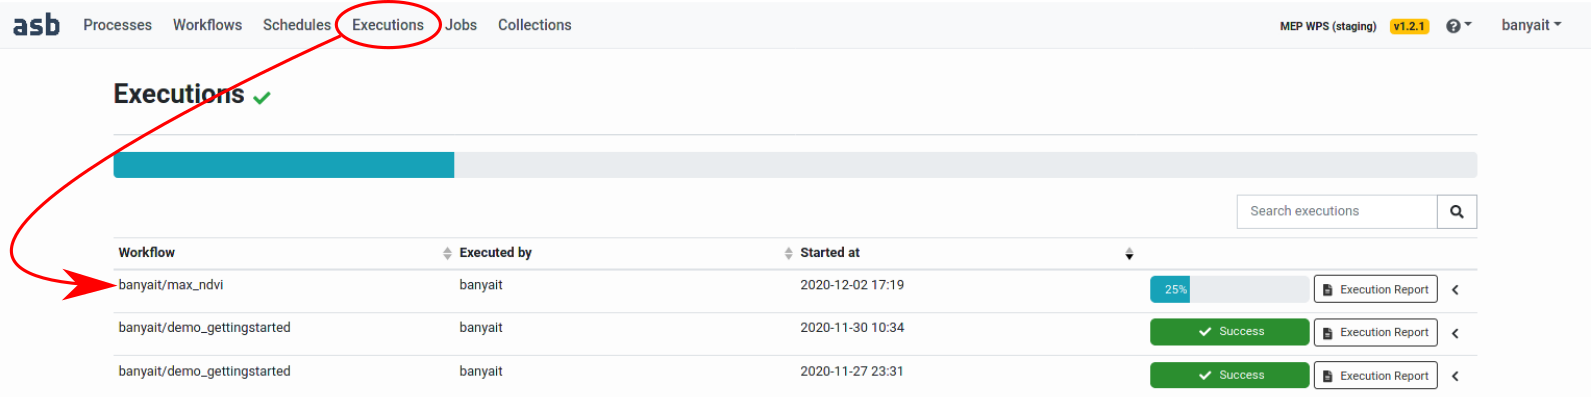
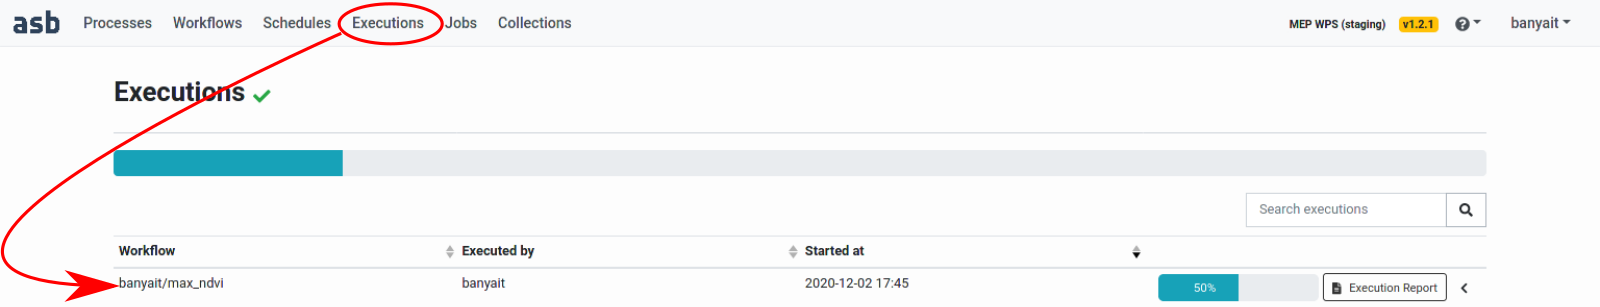
EP-3636 first version of the demo

diff --git a/README.md b/README.md
@@ -567,9 +567,42 @@ Note that wkt has to be filled twice: this is because a current limitation that 
 
 The progress is displayed in the executions tab:
 
-<img src="resources/demo_gettingstarted/execute_progress.png" width="400"/><br><em>Figure: all fields completed for an execution</em>
+<img src="resources/demo_gettingstarted/execute_progress.png" width="400"/><br><em>Figure: execution progress</em>
 
 Once it is completed (either green if successful or red if failed), the execution report becomes available:
 
+<img src="resources/demo_gettingstarted/execute_finished.png" width="400"/><br><em>Figure: execution successfully finished</em>
+
+The execution summary will print out various details of the job, such as:
+
+* All outputs of all processes
+* Execution graph
+* Timing of the processes
+
+It also provides a link to download results saved to file 
+<ins>
+(It is broken right now, have to grab it from the user VM!)
+</ins>
+:
+
+<img src="resources/demo_gettingstarted/execute_finished.png" width="400"/><br><em>Figure: execution report</em>
+
+In this concrete example the MEP query resulted in 5 B4/B8 pairs of images. 
+Those are from the Sentinel tiles 31UES and 31UFS at various days in the range and were processed independently in a parallel fashion, thanks to the dynamic splitter.
+Finally, the max collector produced this gorgeous image from the parts:
 
 <img src="resources/demo_gettingstarted/result_final.png" width="400"/><br><em>Figure: final result, maximum NDVI</em>
+
+Well done!
+
+## Summary
+
+What we have done:
+* developed two processes for calculating NDVI and it's max combiner
+* using the above two and also reusing some existing processes, built a worklfow for obtaining max NDVI 
+* successfully run the calculation using that workflow
+
+What we learned:
+* how to create processes
+* how to create workflows
+* how to execute workflows
